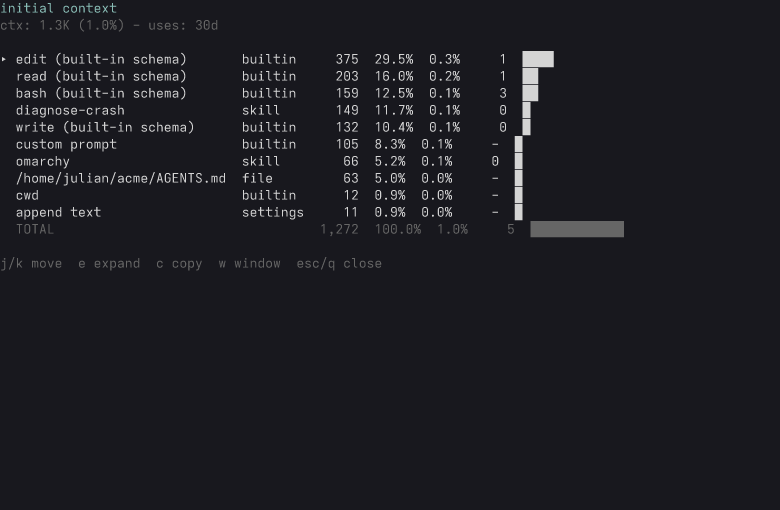
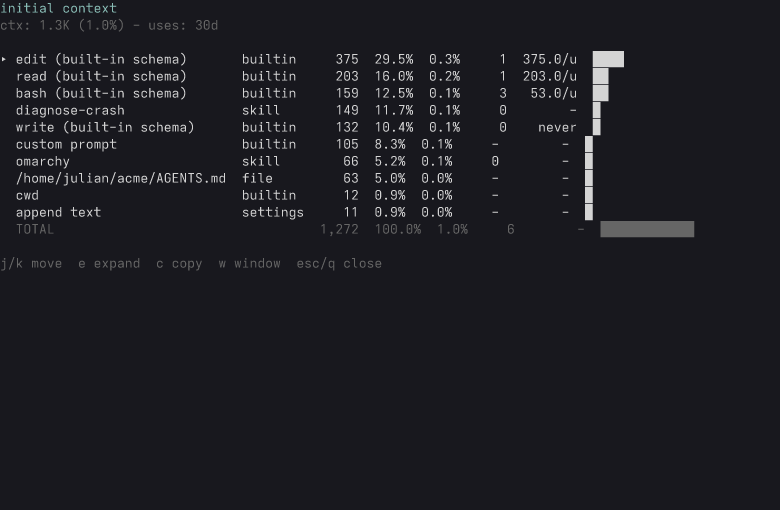
Re-render the initial-context and codegraph screenshots for the main-line UI
After rebasing onto main, two captures drifted: the initial-context
view gained the per-use waste column (issue #72 work) and the
codegraph status lines dropped the callers/callees fields. Re-ran
'npm run docs:screenshots' and updated the golden test's pinned lines
for the new /ctx view.

Changed region(s): [[0.6462, 0.0882, 0.8, 0.4706], [0.8, 0.4118, 0.8923, 0.4706]]

diff --git a/tests/screenshots/golden.test.ts b/tests/screenshots/golden.test.ts
@@ -52,7 +52,8 @@ const EXPECTED_LINES: Record<string, string[]> = {
 	"initial-context": [
 		"initial context",
 		"ctx: 1.3K (1.0%) - uses: 30d",
-		"TOTAL                                  1,272  100.0%  1.0%     5  ████████████",
+		"1,272  100.0%  1.0%",
+		"375.0/u",
 	],
 	tools: [
 		"Tool Configuration",
